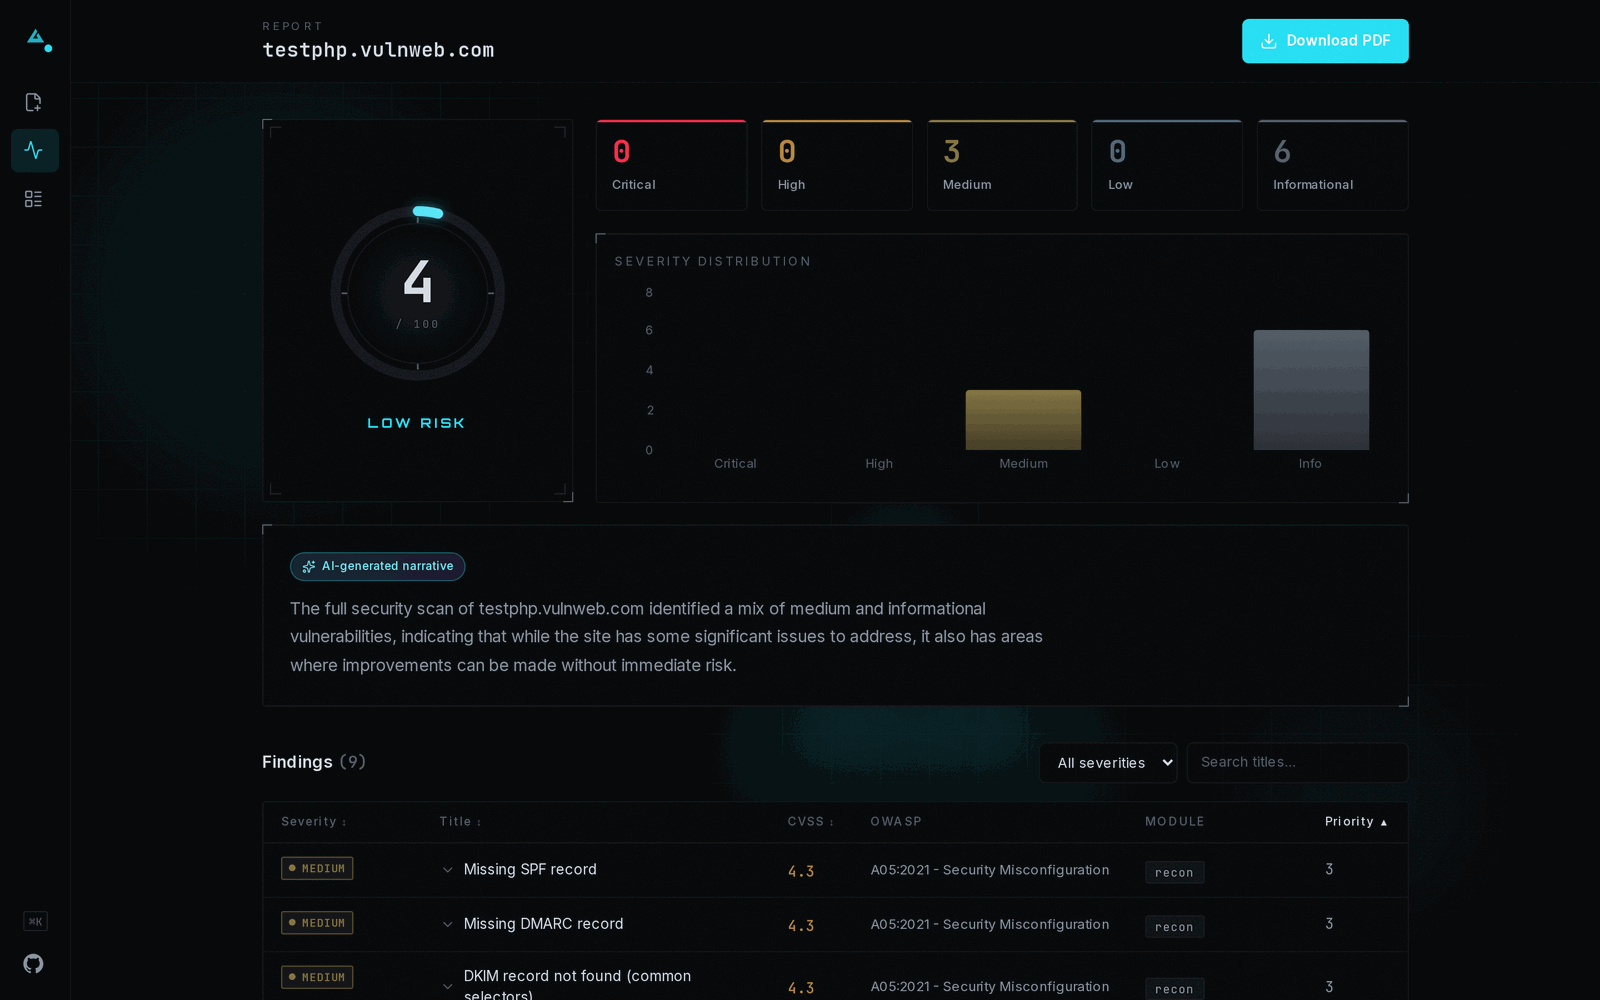
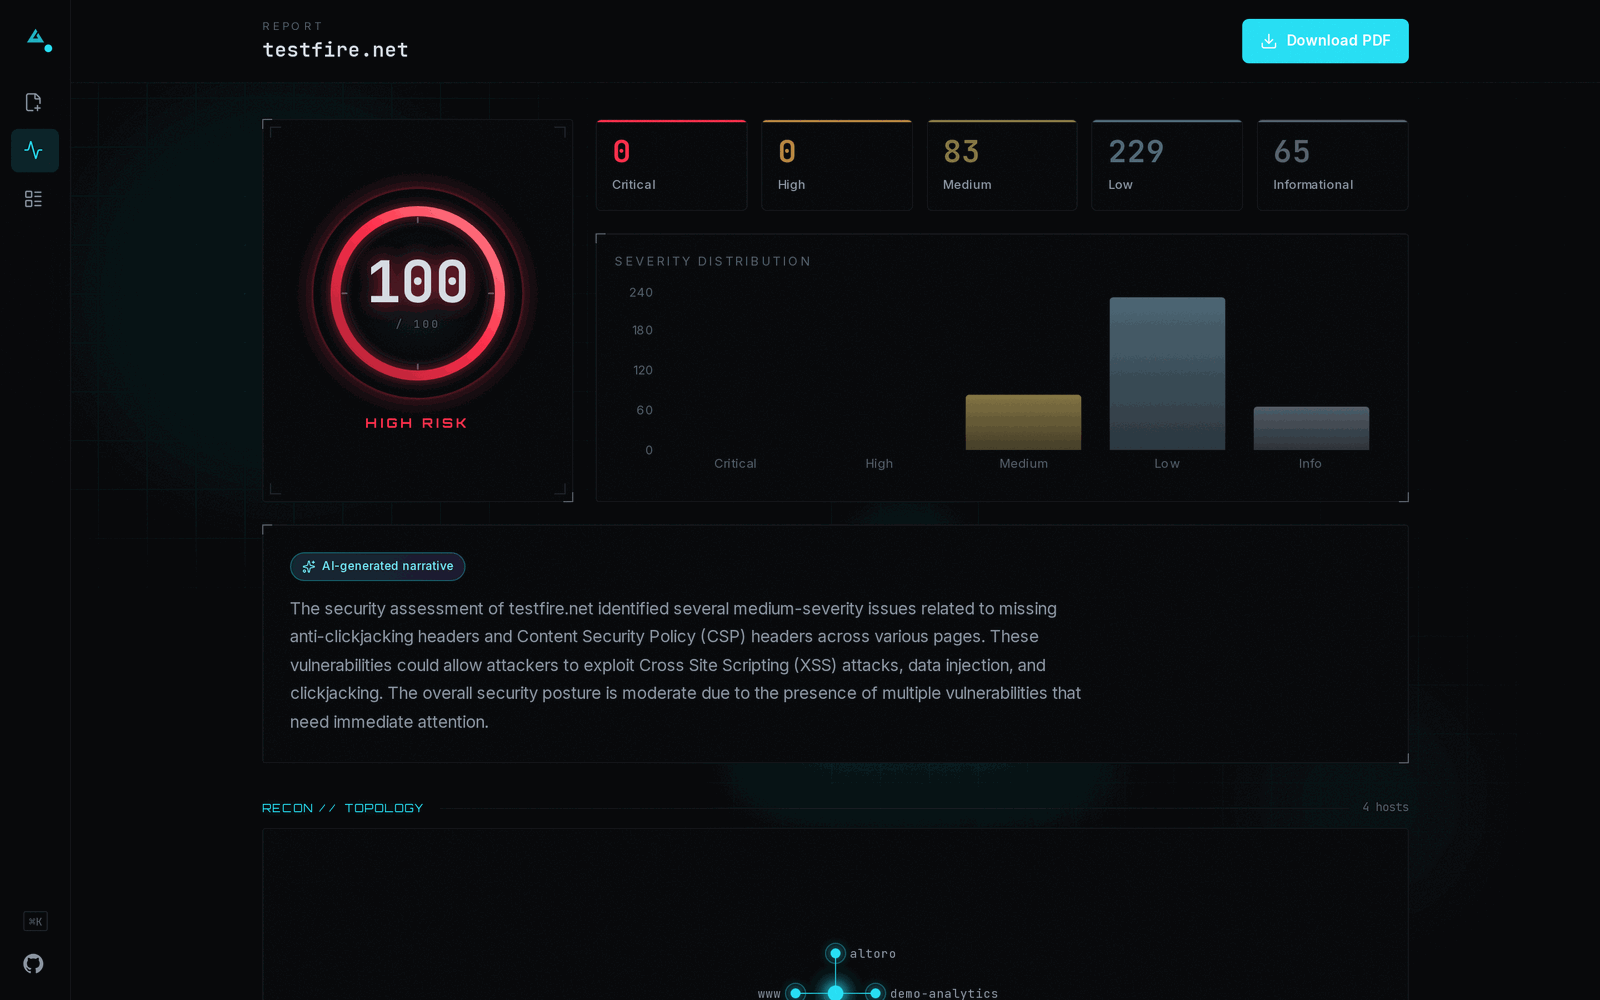
Fix CI: ssl_tls scanTime dropped by noise filter; harden compose-build; red-risk report screenshot
backend-tests: the testssl noise filter I added dropped the special-cased
`scanTime` finding whenever its text matched a noise phrase (e.g. "Scan
interrupted"), breaking test_scantime_always_informational. scanTime is metadata
we always keep as Informational, so it's now exempt from the noise filters (they
run only in the non-scanTime branch). Full suite: 489 passed.

compose-build: was failing at ~25s before building any layer, identically on
unrelated dependabot runs - an anonymous Docker Hub pull rate-limit on the shared
runner, not a Dockerfile issue (builds fine locally). Add a disk-cleanup step and
a 3x retry-with-backoff around the build to ride out transient pull limits.

README: swap the report screenshot to a testfire.net scan (risk 100, red "High
Risk" ring) - a far more representative hero shot than the prior Low-risk one.

diff --git a/backend/tasks/ssl_tls.py b/backend/tasks/ssl_tls.py
@@ -197,18 +197,6 @@ def _parse_testssl_json(path: str, domain: str, scan_id: str) -> List[dict]:
                 continue
             item_id = item.get('id', 'ssl_finding')
             finding_text = item.get('finding', '') or item_id
-            # testssl emits its own scan-mechanics/diagnostic lines at WARN (which
-            # maps to "Low" below) - "check failed", "couldn't connect", "not
-            # tested", engine errors, the overall letter grade. These are NOT
-            # vulnerabilities about the target, but they were rendering as real
-            # Low/Medium findings with scary CVSS bands and useless "no tailored
-            # guidance" text (user-reported, clinkl.in report). Drop them by id
-            # and by diagnostic phrasing, regardless of the severity testssl set.
-            if item_id in _TESTSSL_NOISE_IDS:
-                continue
-            _ft_low = finding_text.lower()
-            if any(p in _ft_low for p in _TESTSSL_NOISE_PHRASES):
-                continue
             if item_id == 'scanTime':
                 # testssl.sh's own "did my scan finish" signal, not a graded
                 # vulnerability about the target - real bug found live
@@ -218,8 +206,24 @@ def _parse_testssl_json(path: str, domain: str, scan_id: str) -> List[dict]:
                 # it became the sole input to the AI executive summary,
                 # which then described the whole 38-finding scan as "a
                 # single low-severity issue" about an "interruption".
+                # Deliberately EXEMPT from the noise filters below: scanTime is
+                # metadata we always keep as Informational, even when testssl
+                # phrases it as an interruption/warning (which would otherwise
+                # match a _TESTSSL_NOISE_PHRASES entry and be dropped).
                 severity = 'Informational'
             else:
+                # testssl emits its own scan-mechanics/diagnostic lines at WARN
+                # (which maps to "Low" below) - "check failed", "couldn't
+                # connect", "not tested", engine errors, the overall letter
+                # grade. These are NOT vulnerabilities about the target, but
+                # they rendered as real Low/Medium findings with scary CVSS
+                # bands and useless "no tailored guidance" text (user-reported,
+                # clinkl.in report). Drop them by id and by diagnostic phrasing,
+                # regardless of the severity testssl set.
+                if item_id in _TESTSSL_NOISE_IDS:
+                    continue
+                if any(p in finding_text.lower() for p in _TESTSSL_NOISE_PHRASES):
+                    continue
                 raw_sev = str(item.get('severity', '')).upper().strip()
                 if raw_sev in _TESTSSL_SKIP or raw_sev not in _TESTSSL_SEVERITY_MAP:
                     continue